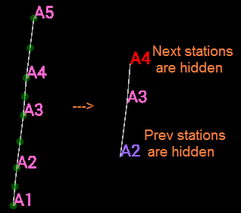
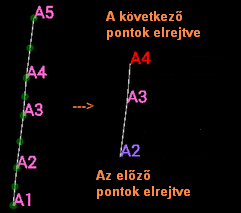
javítás 1

diff --git a/man/page_sketch_station.htm b/man/page_sketch_station.htm
@@ -2,34 +2,34 @@
 
 <h4>VÁZLAT MÉRÉSI PONT</h4>
 
-Ez a párbeszédpanel a poligon-pont helyzetét (kelet, észak és függőleges) jeleníti meg a vázlat eredetéhez viszonyítva, és
-a poligon-pont megjegyzését (szerkeszthető mező) [T].
+Ez a párbeszédpanel a poligon-pont helyzetét (kelet, észak és függőleges) jeleníti meg a vázlat eredetéhez viszonyítva, és ezzel szerkesztheted
+a poligon-pont megjegyzését [T].
 <br>
 
 Műveletek:
 <ul>
-<li>írja be vagy szerkessze az poligon-pont megjegyzését, és mentse el [T]</li>
-<li>tegye az poligon-pontot "aktívvá", azaz folytassa a felmérést erről az poligon-pontról.</li>
+<li>írj be vagy szerkessz poligon-pont megjegyzését, és mentsd el [T]</li>
+<li>tegye ezt poligon-pontot "aktívvá", azaz folytasa a felmérést erről az poligon-pontról.</li>
 <li>mutassa meg a rejtett poligont (ha van ilyen)</li>
 <li>pontról felvett sünök megjelenítése/elrejtése</li>
 <li>poligon-pont metszet gombjai</li>
-<li>lépjen a <a href="page_saved_station.htm"> mentett poligon-pont</a> párbeszédpanelen [A]</li>
+<li>lépjen a <a href="page_saved_station.htm"> mentett poligon-pont</a> párbeszédpanelbe [A]</li>
 </ul>
 
 <b>Aktív poligon-pont</b><br>
-Az "aktív" poligon-ponthoz csatolják a következő letöltött felvételeket. Egy poligon letöltésével (vagy behelyezésével) az új poligon-pont "aktív" poligon-pontsá válik. Az "aktív" poligon-pont megváltoztatásával folytathatja a felmérést egy poligon-pontról a felmérés közepén. Az aktív poligon-pont zölden jelenik meg a felvételi adatok listájában.<br><p>
+Az "aktív" poligon-ponthoz csatolják a következő letöltött felvételeket. Egy poligon letöltésével (vagy behelyezésével) az új poligon-pont "aktív" poligon-ponttá válik. Az "aktív" poligon-pont megváltoztatásával folytathatja a felmérést egy poligon-pontról a felmérés közepén. Az aktív poligon-pont zölden jelenik meg a felvételi adatok listájában.<br><p>
 
-<b>Középvonal elrejtése</b><br>
-A középvonal részek elrejtése akkor hasznos, ha a felmérés bonyolult vagy túlmutat önmagán.
+<b>Poligon-vonal elrejtése</b><br>
+A Poligonvonal részek elrejtése akkor hasznos, ha a felmérés bonyolult vagy túlmutat önmagán.
 Ebben az esetben hasznos a középvonalnak csak a megfelelő részét látni, elrejtve azt, ami egy poligon-ponton túl van.
 Ha az poligon-ponton túl található középvonal el van rejtve, az poligon-pont ki van emelve:
-ibolya színű, ha a rejtett középvonal köztük és a vázlat kiinduló poligon-pont között fekszik, különben piros.
-Azokat az poligon-pontokat, amelyek a középvonalban egy "piros" poligon-pont mögött vannak, nem menti automatikusan a Therion poligon-pontként. Ezért, ha a selejt belsejében lévő vázlat eredetű poligon-pontot választja, és az poligon-pontokat akadályként jelöli meg, elkerülheti a scrap fájlban található hamis poligon-pontokat.
+ibolya színű, ha a rejtett poligonvonal köztük és a vázlat kiinduló poligon-pont között fekszik, különben piros.
+Azokat az poligon-pontokat, amelyek a poligonvonalban egy "piros" poligonpont mögött vannak, nem menti automatikusan a Therion poligon-pontként. Ezért, ha a szint belsejében lévő vázlat eredetű poligon-pontot választod, és a poligon-pontokat akadályként jelölöd meg, elkerülheted a scrap fájlban található hamis poligon-pontokat.
 <br>
-A középvonal megjelenítése a poligon mérések tulajdonságszerkesztő párbeszédpanelén keresztül korlátozható.
-Ha az poligon-ponton túl található középvonal el van rejtve, van egy gomb a visszaállításhoz és az poligon-pontszerkesztés párbeszédpanelen való megjelenítéshez.<br><p>
+A poligon-vonal megjelenítése a poligon mérések tulajdonságszerkesztő párbeszédpanelén keresztül korlátozható.
+Ha a poligonponton túl található poligonvonal el van rejtve, van egy gomb a visszaállításhoz és a poligonpont szerkesztés párbeszédpanelen való megjelenítéshez.<br><p>
 
-<img src = "hiding_stations.png" alt = "poligon-pontok elrejtése"><br><p>
+<img src = "hiding_stations.png" alt = "poligonpontok elrejtése"><br><p>
 
 <b>A poligon-pont sünök</b></br>
 Az poligon-pont sünök megjelenítése kényszeríthető a vázlat globális beállításának felülírására.
@@ -38,19 +38,17 @@ Ha a rejtőzést kényszerítik, akkor a sünök akkor sem jelennek meg, ha glob
 Ez a jelölés NEM befolyásolja a sünök szerkesztését-kiválasztását; a kijelölés zöld pontjai mindig megjelennek
 a globális beállítás szerint.<br><p>
 
-<b>Az poligon-pont keresztmetszete</b><br>
-Keresztmetszetek poligon-pontokon hozhatók létre.
+<b>Az poligon-pont keresztmetszet</b><br>
+Keresztmetszetek poligon-pontokon is létrehozhatók.
 Alaprajzban a függőleges síkban vannak (síkjukat a poligonok iránya határozza meg).
-Oldalnézetben az metszetnek lehet dőlése. Ha azonban az "poligon-pontok" jelölőnégyzeteken keresztül jelölte be
-akkor függőlegesek, ha a poligonak dőlése egy megadott érték (egy beállítás) alatt van, ellenkező esetben
-vízszintes.
+Oldalnézetben az metszetnek lehet dőlése. Ha azonban az "poligon-pontok" jelölőnégyzeteken keresztül jelölte be akkor függőlegesek, ha a poligonak dőlése egy megadott érték (egy beállítás) alatt van, ellenkező esetben vízszintes.
 <br>
 
 Ha az poligon-pontnak csak két poligonja van rögzítve, a keresztmetszet síkját a TopoDroid következtetheti ki
 (a két poligon közötti szög felezője, vagy a poligonára merőleges, ha csak egy).
-Csak a kétértelműség marad, hogy melyik oldalról nézzük
-a keresztmetszetet. Ez megoldható két olyan gombbal, amely meghatározza az irányt
-a poligon-ponttal párokkal.
+Csak az a kétértelműség marad, hogy melyik oldalról nézzük
+a keresztmetszetet. Ez feloldható két olyan gombbal, amely meghatározza az irányt
+a poligon-pont párokkal.
 <br>
 
 Az utolsó gombbal a felhasználó kiválaszthatja a keresztmetszet irányát az androidos kamerával.
@@ -60,20 +58,20 @@ A poligon-pont keresztmetszetei lehetnek „privátak” ahhoz a vázlathoz, ame
 az összes vázlat között. Ez utóbbi esetben az összes vázlaton megnyílik az poligon-pont szerkesztési párbeszédablaka
 ugyanahoz a keresztmetszethez. Az előbbi esetben egy poligon-pont keresztmetszet szerkesztése párbeszédpanelt csak azon a vázlaton lehet megnyitni ahol az meg van adva.<br><p>
 
-Mindkét esetben az x szakasz csak abban a vázlatban kerül exportálásra, amely tartalmazza a szakasz pontját,
-azaz a vázlatban ahol van megadva.<br><p>
+Mindkét esetben a keresztmetszet szakasz csak abban a vázlatban kerül exportálásra, amely tartalmazza a szakasz pontját,
+azaz a vázlatban ahol meg van adva.<br><p>
 
 A felmérés létrehozásakor a "privát" és a "megosztott" poligon-pont keresztmetszetei között lehet választani
 és utólag nem módosítható. Ha az poligon-pont keresztmetszetei privátak, akkor becenevet adhat meg a következőnek:
-különbözõ vázlatokban különböztesse meg ugyanazon poligon-ponton az x metszeteket.
+különbözõ vázlatokban különböztesse meg ugyanazon poligon-ponton a keresztmetszeteket.
 <br><p>
 
 Az poligon-pont keresztmetszet neve a tervnézetben a "felmérés_neve", "xs", "poligon-pontnév".
-és ha a keresztmetszetek privátak, akkor a "sketch_name". Például: "survey-xs-0-1p".
+és ha a keresztmetszetek privátak, akkor a "vázlat-név". Például: "survey-xs-0-1p".
 A profilnézetben egy poligon-ponton lévő keresztmetszet neve "xh" helyett "xs".
 <br><p>
 
-Az poligon-ponton lévő keresztmetszeteknél hasonló megjegyzések lehetnek, mint a poligon-vonali keresztmetszetekhez.<br><p>
+Az poligon-ponton lévő keresztmetszeteknél hasonló megjegyzések lehetnek, mint a poligon-vonali keresztmetszeteknél.<br><p>
 
 
 </body></html>

diff --git a/man/manual00.htm b/man/manual00.htm
@@ -1,32 +1,31 @@
 <html><body>
 <h2>TopoDroid FELHASZNÁLÓI KÉZIKÖNYV</h2>
 <!-- NOW -->
-<i> marco.corvi@gmail.com </i><br><p>
+<i>marco.corvi@gmail.com</i><br><p>
 
-A TopoDroid egy barlangfelméréshez készült Android-alkalmazás. A TopoDroid beolvassa a mérési adatokat, segít azok rendezésében, és a helyszínen elkészíti a felmérés poligonját. Felmérés közben tovább rajzolhat vázlatokat a poligon köré, ezáltal csökkentve a vázlatba történő beírás hibáinak valószínűségét, és segít abban, hogy észlelje az adatok hibáit, amikor még a barlangban van. A TopoDroid számos funkcióval rendelkezik, amelyek segítségével a lehető legtöbbet hozhatja ki a barlangban végzett munkájából. Ily módon egy működő térkép szinte készen áll, amikor befejezi a felmérési utat.<br><p>
+A TopoDroid egy barlangfelméréshez készült Android-alkalmazás. A TopoDroid beolvassa a mérési adatokat, segít azok rendezésében, és a helyszínen elkészíti a felmérés poligonját. Felmérés közben tovább rajzolhatod a vázlatokat a poligon köré, ezáltal csökkentve a vázlat hibáit, és segít abban, hogy észrevedd az adatok hibáit, még a barlangban. A TopoDroid számos funkcióval rendelkezik, amelyek segítségével a lehető legtöbbet hozhatod ki a barlangban végzett munkából. Ily módon a barlang térkép szinte készen áll, amikor befejezed a felmérést.<br><p>
 
 A TopoDroid hatékonyabbá teszi a barlangban végzett felméréssel töltött időt. Úgy tervezték, hogy egyszerre egy felmérést kezeljen, és ne kezelje az összetett barlangfelmérési projekteket, amelyek több különböző felmérést tartalmaznak.
-A TopoDroid célja, hogy segítsen egy földmérőnek az adatok pontosabb összegyűjtésében, valamint hogy a felmérés
-feladat kellemesebb legyen, nem célja a barlang végleges térképének elkészítése. Erre a célra már léteznek jó PC programok. <br><p>
+A TopoDroid célja, hogy segítsen a térképésznek az adatok pontosabb összegyűjtésében, valamint hogy a felmérési
+feladat kellemesebb legyen. Nem célja a barlang végleges térképének elkészítése. Erre a célra már léteznek jó PC programok.<br><p>
 
-Mindazonáltal a TopoDroid tartalmaz egy <i>barlangprojekt menedzser</i>-t, amellyel felméréseket lehet összeállítani egy barlang/karszt projektbe. <br><p>
+Mindazonáltal a TopoDroid tartalmaz egy <i>barlangprojekt menedzser</i>-t, amellyel felméréseket lehet összeállítani egy barlang/karszt projektbe.<br><p>
 
-A TopoDroidot kifejezetten a DistoX, az SAP5 és a BRIC4 használatára tervezték. A felmérési adatok azonban manuálisan is megadhatók. <br><p>
+A TopoDroidot kifejezetten a DistoX, a SAP5 és a BRIC4 használatára tervezték. A felmérési adatok azonban manuálisan is megadhatók.<br><p>
 
-Alapértelmezés szerint a TopoDroid képernyője nem meghatározott irányú, de globális beállítással álló vagy fekvő helyzetben rögzíthető. <br><p>
+Alapértelmezés szerint a TopoDroid képernyője nem rögzített irányú, de globális beállítással álló vagy fekvő helyzetben rögzíthető.<br><p>
 
 <b><a href="page_quick.htm"> TopoDroid gyors útmutató </a></b><br><br><p>
 
 <img src="map_sample.png" alt = "ICON" /><br><p>
 
 <b>NYILATKOZAT</b><br>
-<i>A TopoDroid egy nyílt forráskódú ingyenes alkalmazás, és hirdetésmentes. Garancia nélkül jár: használatával elfogadja, hogy a szerzők nem vállalnak felelősséget semmilyen adatvesztésért, amely felmerülhet, vagy bármilyen kárt okozhat, különösen a DistoX, SAP5, BRIC4 esetében. Bár a szerzők mindent megtesznek, hogy hibamentes alkalmazást nyújtsanak, ez nem garantált.</i>
+<i>A TopoDroid egy nyílt forráskódú ingyenes és hirdetésmentes alkalmazás. Garancia nélkül jár: használatával elfogadja, hogy a szerzők nem vállalnak felelősséget semmilyen adatvesztésért, amely felmerülhet, vagy bármilyen kárt okozhat, különösen a DistoX, SAP5, BRIC4 műszerben. Bár a szerzők mindent megtesznek, hogy hibamentes alkalmazást nyújtsanak, ez nem garantált.</i>
 <hr><br><p>
 
 <h4>Felmérési adatok</h4>
 A felmérés adatait és vázlatait a "TopoDroid" mappába menti.
-Ez a mappa az "elsődleges külső memóriában" (/sdcard) Android v 9-ig, És a "Documents" -ban kezdődik
-android v 10. verzióval
+Ez a mappa az "elsődleges külső memóriában" (/sdcard) Android v 9-ig, és a "Documents" -ben kezdődik android v 10. verzió felett.
 A felmérés adatait és vázlatait nem távolítjuk el az alkalmazás eltávolításakor.<br><p>
 
 <h4>Hardverfunkciók</h4>
@@ -39,12 +38,12 @@ Az internetkapcsolatot csak a felhasználói kézikönyv fordításainak telepí
 
 
 <h4>Hibák és összeomlások</h4>
-A korlátozott erőforrások miatt az apk nem tesztelhető teljes mértékben. Célszerű a TopoDroid frissítéseket olyan apk-kezelővel telepíteni, amely megőrzi a korábban telepített verziók apk-ját. Ezáltal biztonságosan visszatérhet az Ön számára megfelelő verzióra, arra az esetre, ha problémákat találna a legújabb apk-val. Ne felejtse el jelenteni a problémákat, hogy azokat a következő verzióban figyelembe vegyék. A hibabejelentéseket azonnal figyelembe veszik, és az alkalmazást gyakran frissítik.
+A korlátozott erőforrások miatt az apk nem tesztelhető teljes mértékben. Célszerű a TopoDroid frissítéseket olyan apk-kezelővel telepíteni, amely megőrzi a korábban telepített verziók apk-ját. Ezáltal biztonságosan visszatérhet az Ön számára megfelelő verzióra, arra az esetre, ha problémákat találna a legújabb apk-ban. Ne felejtse el jelenteni a problémákat, hogy azokat a következő verzióban figyelembe vegyék. A hibabejelentéseket azonnal figyelembe veszik, és az alkalmazást gyakran frissítik.
 <ul style = "margin-top = 0">
 <li> Kérjük, állítsa be androidos rendszerét az összeomlások automatikus jelentésére (lásd a weboldalak részleteit).</li>
-<li> Az opciók választása után történt összeomlások a lista hiányos fordításainak tudhatók be.
-Futtassa az alkalmazást angol nyelven; ha az összeomlás megszűnik, vegye fel a kapcsolatot a fordítás fenntartóval
-<li> Ha hibát talál, vagy az alkalmazás nem úgy viselkedik, mint várta, küldjön egy e-mailt. <b>Tartalmazza az alkalmazás verzióját</b>.</li>
+<li> A nyelvi opciók választása után történt összeomlások a lista hiányos fordításainak tudhatók be.
+Futtassa az alkalmazást angol nyelven, ha az összeomlás megszűnik, vegye fel a kapcsolatot a fordítás fenntartóval.
+<li> Ha hibát talál, vagy az alkalmazás nem úgy viselkedik, mint várta, küldjön egy e-mailt, amely <b>tartalmazza az alkalmazás verzióját</b>.</li>
 <li> Ha általános kérdése vagy szolgáltatáskérése van, küldjön egy e-mailt a TopoDroid levelezőlistára. </li>
 </ul><br><p>
 
@@ -79,7 +78,7 @@ Források: https://github.com/marcocorvi/topodroid<br><p>
 </ul>
 <p>
 
-A felhasználói kézikönyv fordítások telepítéséhez válassza ki a fordítás nyelvét a <u>főablak</u> megfelelő beállításában.
+A felhasználói kézikönyv fordítások telepítéséhez válassza ki a fordítás nyelvét a <u>főablak</u> megfelelő beállításában
 (internetkapcsolat szükséges).<br><p>
 
 Ha kézikönyv fordítás telepítve van, akkor

diff --git a/man/page_saved_station.htm b/man/page_saved_station.htm
@@ -4,30 +4,30 @@
 Ez a párbeszédablak a felmérés <u>adatablak</u> <i>Állomás</i> gombjával nyílik meg,
 vagy a <u>vázlatablak</u> <i>állomás szerkesztése</i> párbeszédablakából.<br><p>
 
-A "mentett állomások" azok az állomások, amelyeket későbbi felhasználás céljából elmentettek, pl. Egy kereszteződésnél, hogy visszamenjenek és folytassák a
-tovább mérnis onnan, vagy egy lehetséges megjelölésre egy jövőbeli mérés ellenőrzéséhez.<br><p>
+A "mentett poligon-pontok" azok a pontok, amelyeket későbbi felhasználás céljából elmentettek. Pl. egy kereszteződésnél, hogy visszamenjenek és folytassák a
+további mérést onnan, vagy egy lehetséges megjelölésre egy jövőbeli mérés ellenőrzéséhez.<br><p>
 
-A párbeszédpanelen megjelenik a mentett állomások listája. Koppintással válasszon egyet.<br><p>
+A párbeszédpanelen megjelenik a mentett poligon-pontok listája. Koppintással válasszon egyet.<br><p>
 
-A kiválasztott állomás megjelenik a szövegmezőkben.
+A kiválasztott poligon-pont megjelenik a szövegmezőkben.
 A felmérés <u>adatablak</u> ból nyílt meg, a szövegmező tartalmazza az utolsó állomást, vagy az aktív állomást, ha ez be van állítva.
-Az állomás szerkesztése párbeszédpanelen megnyílt szövegmező tartalmazza az állomást.<br><p>
+Az poligon-pont szerkesztése párbeszédpanelen megnyílt szövegmező tartalmazza a pontot.<br><p>
 
-Minden mentett állomásnak tartalmaznia kell egy rövid leírást (megjegyzést) vagy egy jelzőkészletet.<br><p>
+Minden mentett poligon-pontnak tartalmaznia kell egy rövid leírást (megjegyzést) vagy egy jelzőkészletet.<br><p>
 
 <ul>
-<li>kiválasztott <b>állomás</b></li>
-<li>állomás <b>zászló</b>, ha van ("fix" vagy "festett")</li>
-<li>állomás <b>megjegyzés</b></li>
+<li>kiválasztott <b>pont</b></li>
+<li>pont <b>zászló</b>, ha van ("csavar" vagy "festett")</li>
+<li>pont <b>megjegyzés</b></li>
 </ul> <br>
 
 Gombok:
 <ul>
-<li><b>Törölje</b> az állomás mezőket: név megjegyzés és megjelölés</li>
-<li><b>Mentse</b> az állomást az adatbázisba</li>
-<li><b>Aktív</b>: állítsa be az állomást "aktív" állomásként</li>
-<li><b>törölje</b> az állomást az adatbázisból (nem állítható helyre)</li>
-<li><b>Bezárás</b> bezárja a párbeszédpanelt</li>
+<li><b>Tisztítsa</b> a poligon-pont mezőket: név megjegyzés és megjelölés</li>
+<li><b>Mentse</b> a poligon-pontot az adatbázisba</li>
+<li><b>Aktív</b>: állítsa be a poligon-pontot "aktív" állomásként</li>
+<li><b>Törölje</b> a poligon-pontot az adatbázisból (nem állítható helyre)</li>
+<li><b>Bezár</b> bezárja a párbeszédpanelt</li>
 </ul>
 <br><p>
 

diff --git a/man/manual_hu.htm b/man/manual_hu.htm
@@ -28,8 +28,8 @@ Holl Balázs, Papp Ferenc Bkcs. 2021.03.25<br>
 <b>Az eredeti kifejezések:</b><br>
 <ul>
 <li>Mérés - Shot - DistoX-el végzett mérés (SAP5, BRIC4), de a program nem különbözteti meg a kézzel bevitt mérési adatokat sem.</li>
-<li>Poligon vonal - Centerline - A térképen megjelenő mérési vonal</li>
-<li>Pont - Station - Poligon pont, alappont, mérési pont (nem biztos hogy megjelölt/fixpont)</li>
+<li>Poligon-vonal - Centerline - A térképen megjelenő mérési vonal</li>
+<li>Poligon-pont - Station - Alappont, mérési pont (nem biztos hogy megjelölt/fixpont)</li>
 <li>Poligon - Leg - Alappont mérés, poligonpontok közötti első mérés, főmérés - tüske</li>
 <li>Visszafelé mérés - Back-leg - Új pontról történő mérés ismert pontra</li>
 <li>Visszamérés - Backsight - Poligon ellenőrző mérése a végpontról a kezdőpontra</li>
@@ -37,6 +37,7 @@ Holl Balázs, Papp Ferenc Bkcs. 2021.03.25<br>
 <li>Sün - Splay - Részletpont mérés, segéd mérés</li>
 <li>Kezdőpont - From - Az irányított poligon első pontja (tól)</li>
 <li>Végpont - To - A bemért pont (ig)</li>
+<li>Aktív - Active - Aktív pont, ahonnan az autómatikus számozás folytatódik</li>
 <li>Lejtés - Clino - A poligon lejtszöge (dőlésszög)</li>
 <li>Irány - Azimut - A poligon mágneses iránya (irányszög)</li>
 <li>Metszet - X-splay - Keresztmetszet</li>

diff --git a/man/manual10.htm b/man/manual10.htm
@@ -118,7 +118,7 @@ Körülbelül 5-ös érték működhet lapos tollal. A nagyobb értékek összek
 </div><br><p>
 
 
-<a href="page_sketch_station.htm"> Vázlatállomás szerkesztése</a><br>
+<a href="page_sketch_station.htm"> Vázlat mérési pont szerkesztése</a><br>
 <a href="page_tools.htm"> Rajzeszközök</a><br>
 <a href="page_walls.htm"> Automatikus falak</a><br>
 <p>
